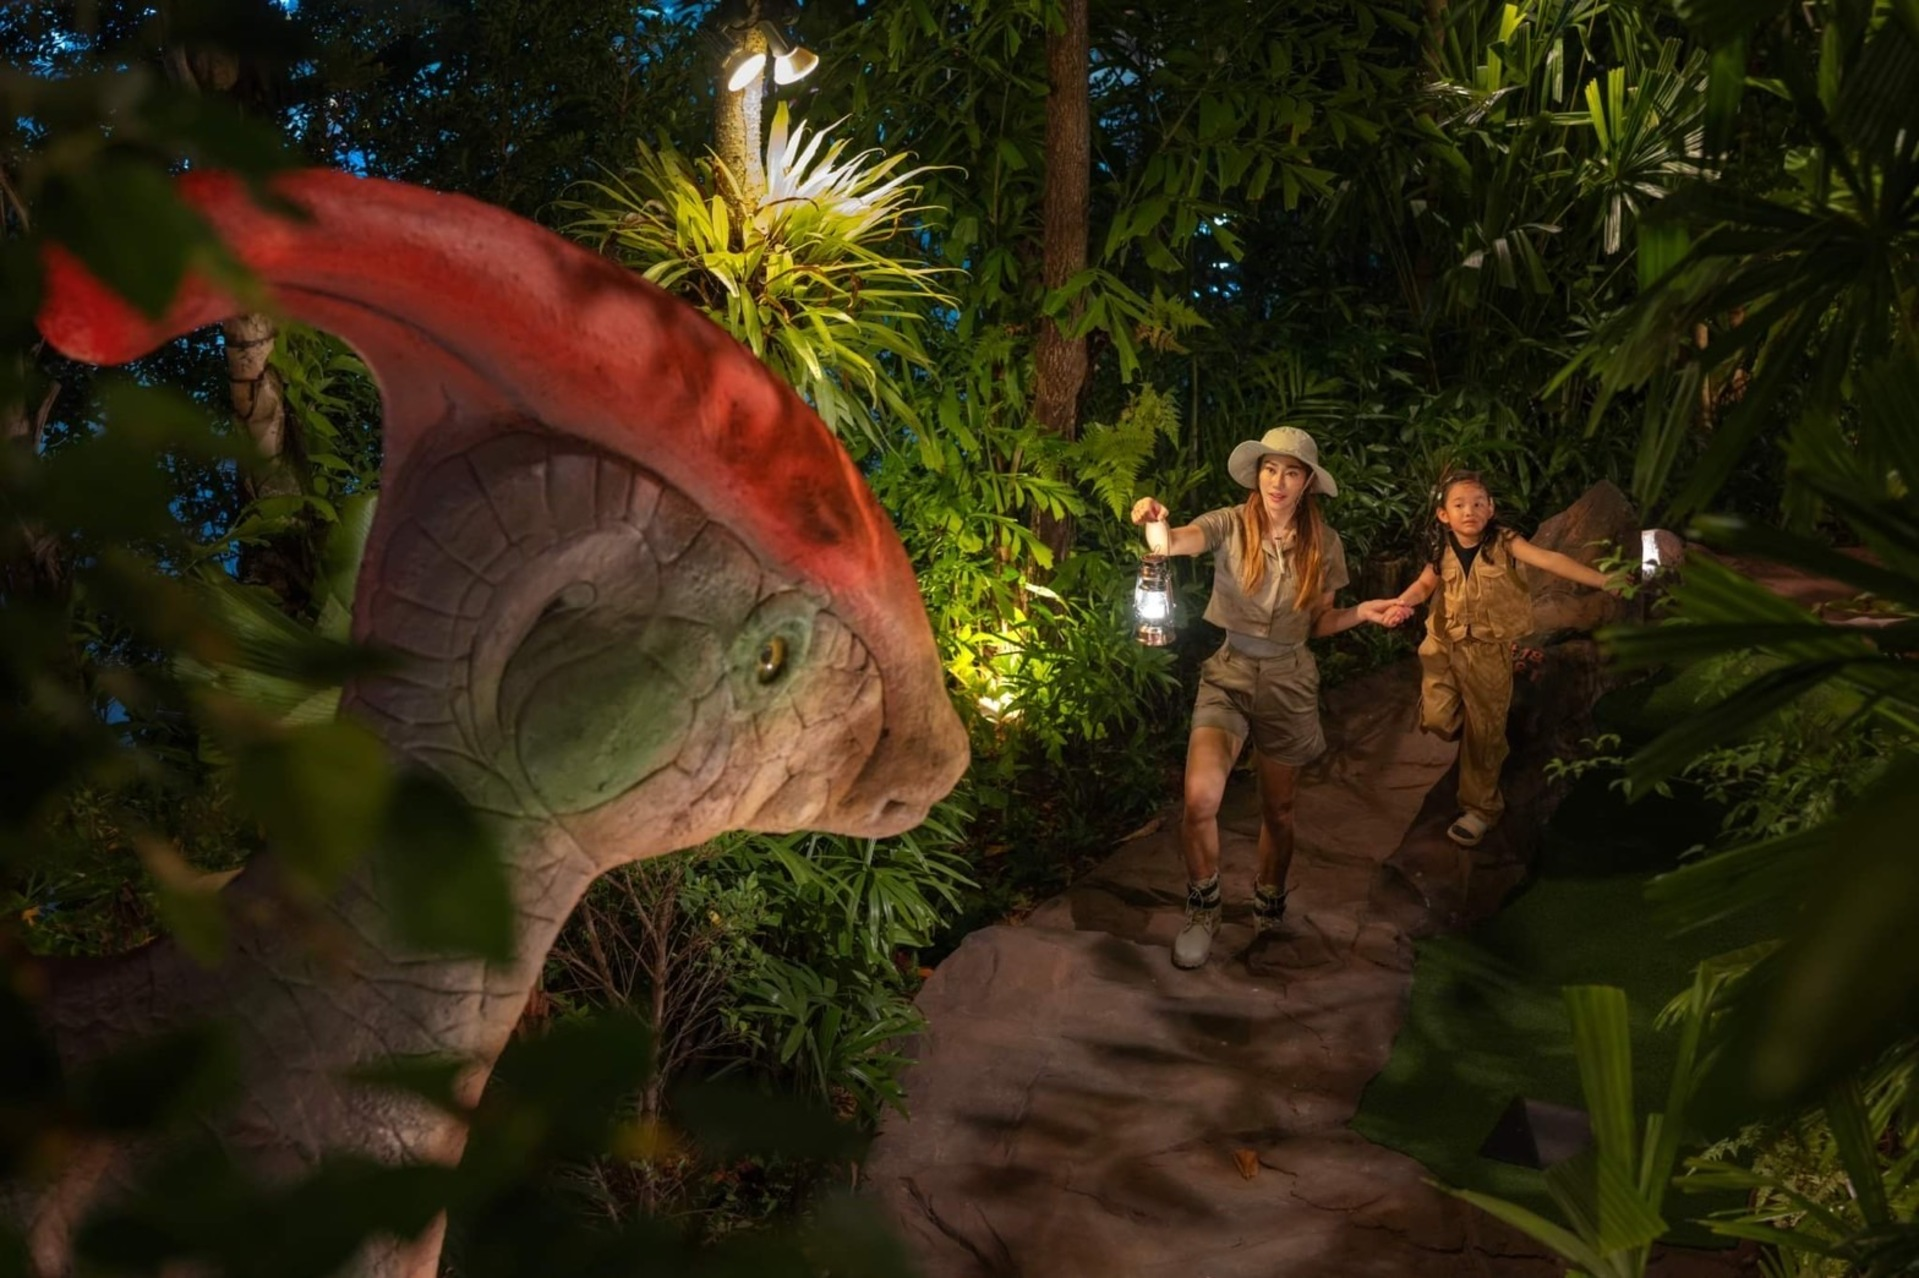
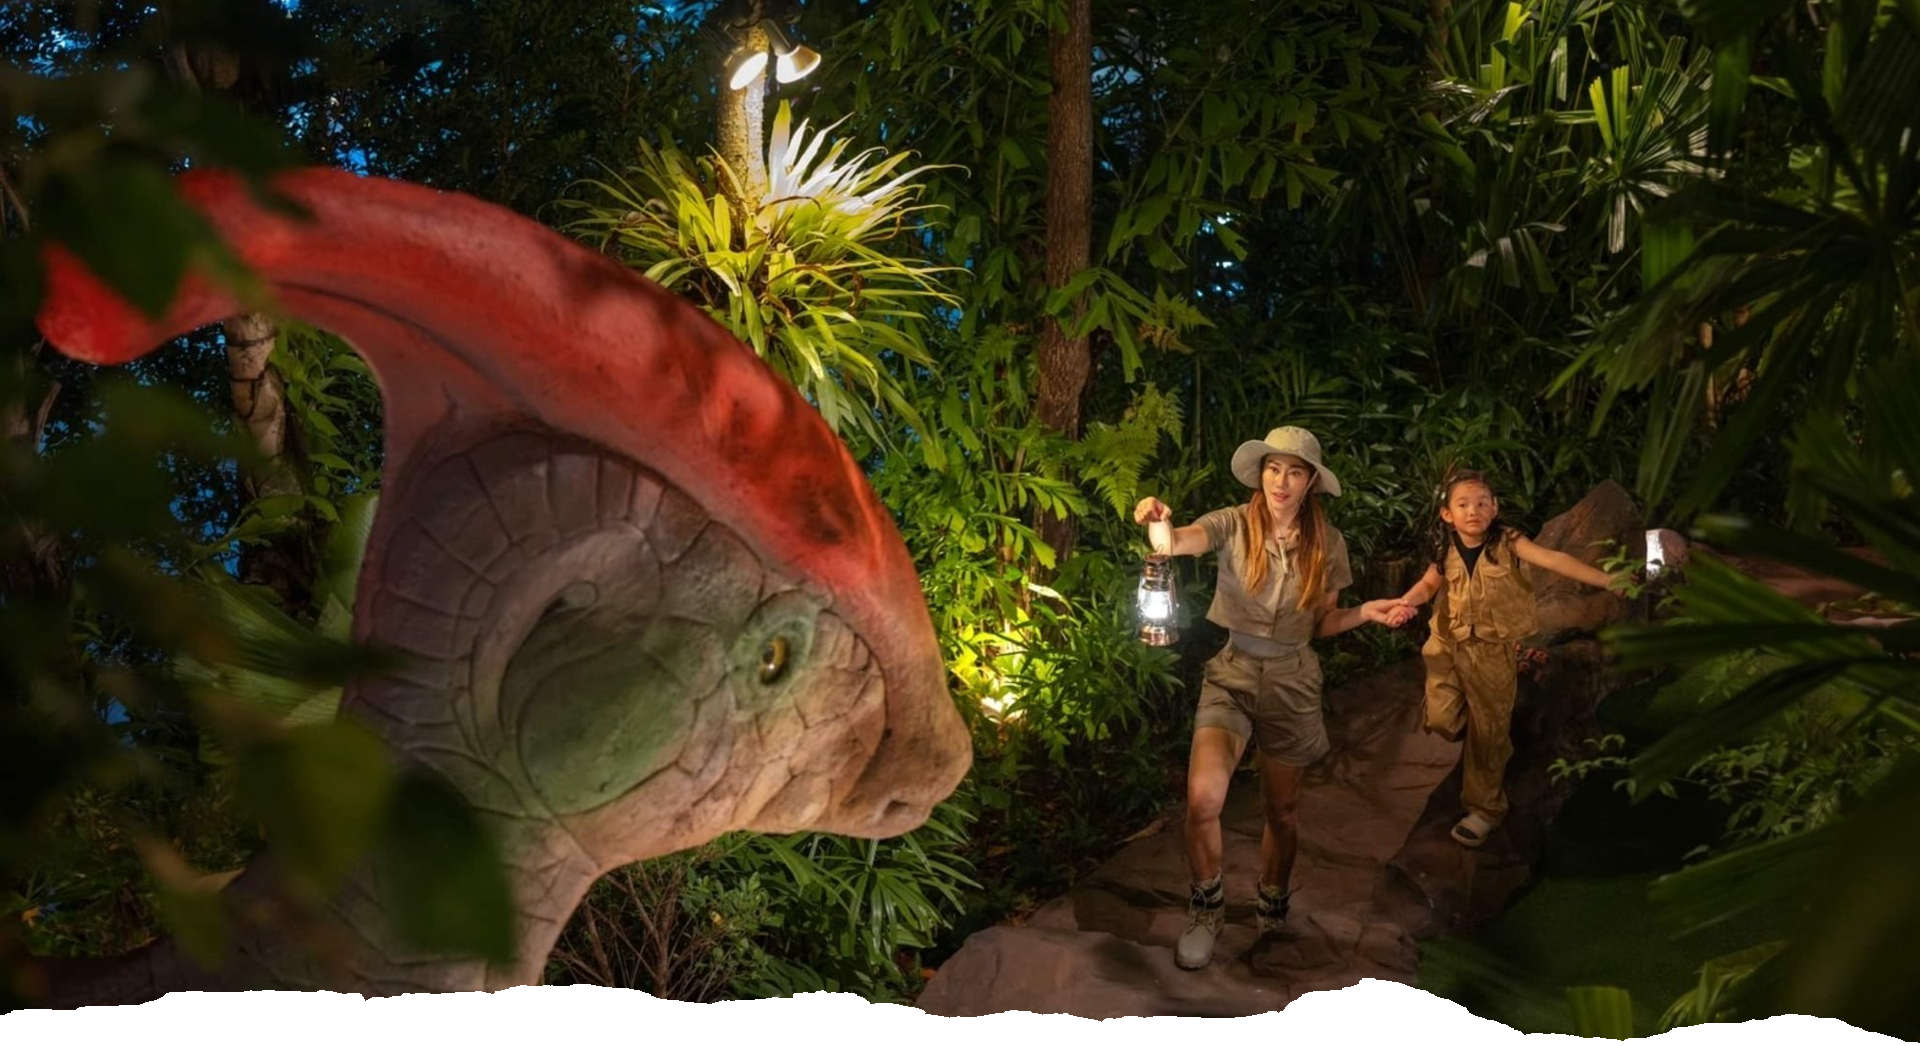
tudut update
.

diff --git a/index.html b/index.html
@@ -334,11 +334,6 @@
                 </div>
                 <div class="row content-box">
                     <div class="col-12 text-center">
-                        <p class="Skranji head-topic head-text" style="text-transform: uppercase;">
-                            Dino Park Phuket - A World Out Of Time
-                        </p>
-                    </div>
-                    <div class="col-12 text-center">
                         <p class="Skranji second-topic head-text">READY TO PUTT YOUR WAY BACK IN TIME</p>
                     </div>
                 </div>
@@ -349,6 +344,11 @@
                         </p>
                         
                     </div>
+                </div>
+                <div class="col-12 text-center">
+                    <p class="font-size-28 content-text" style="text-transform: uppercase;">
+                        Dino Park Phuket - A World Out Of Time
+                    </p>
                 </div>
                 <div class="row btn-contract">
                     <div class="col-12 text-center">
@@ -389,7 +389,7 @@
                 <div class="row e-group">
                     <div class="col-4 text-center e-pic">
                         <a href="eat-drink/food.html">
-                            <img src="img/image-dinokitchenblock.png" alt="" width="100%">
+                            <img src="img/image-dinokitchen.png" alt="" width="100%">
                         </a>
                         <a href="eat-drink/food.html"  class="link">
                             <p class="Lexend-extra e-text">Dino Kitchen</p>
@@ -397,7 +397,7 @@
                     </div>
                     <div class="col-4 text-center e-pic">
                         <a href="eat-drink/drink.html">
-                            <img src="img/image-dinobarblock.png" alt="" width="100%">
+                            <img src="img/dino-bar.png" alt="" width="100%">
                         </a>
                         <a href="eat-drink/drink.html"  class="link">
                             <p class="Lexend-extra e-text">Dino Bar</p>
@@ -408,7 +408,7 @@
                             <img src="img/image-dinostore.png" alt="" width="100%">
                         </a>
                         <a href="soon.html"  class="link">
-                            <p class="Lexend-extra e-text">Dino Store</p>
+                            <p class="Lexend-extra e-text">Dino Park Store</p>
                         </a>
                     </div>
                 </div>

diff --git a/aboutus.html b/aboutus.html
@@ -20,11 +20,11 @@
                 top: 0px;
                 left: 0px;
                 width: 100%;
-                height: 634px;
+                height: 1046px;
                 position: absolute;
                 background: transparent url('img/banner-aboutus2.png') 0% 0% no-repeat padding-box;
                 opacity: 1;
-                background-size: contain;
+                /* background-size: contain; */
             }
             .bg2 {
                 top: 284px;
@@ -413,7 +413,7 @@
                 <div class="row e-group">
                     <div class="col-4 text-center e-pic">
                         <a href="soon.html">
-                            <img src="img/image-minigolf.png" alt="" width="100%">
+                            <img src="img/image-minigolf-aboutus.png" alt="" width="100%">
                         </a>
                         <a href="soon.html"  class="link">
                             <p class="Lexend-extra e-text">Minigolf</p>
@@ -424,12 +424,12 @@
                             <img src="img/image-dinostore.png" alt="" width="100%">
                         </a>
                         <a href="soon.html"  class="link">
-                            <p class="Lexend-extra e-text">Dino Shop</p>
+                            <p class="Lexend-extra e-text">Dino Park Shop</p>
                         </a>
                     </div>
                     <div class="col-4 text-center e-pic">
                         <a href="eat-drink/food.html">
-                            <img src="img/image-dinokitchenblock.png" alt="" width="100%">
+                            <img src="img/image-dinokitchen.png" alt="" width="100%">
                         </a>
                         <a href="eat-drink/food.html"  class="link">
                             <p class="Lexend-extra e-text">Dino Kitchen</p>

diff --git a/parkmap/parkmap.html b/parkmap/parkmap.html
@@ -171,10 +171,10 @@
                             <div class="row mb-3">
                                 <div class="col-12">
                                     <svg class="btn-first" xmlns="http://www.w3.org/2000/svg" height="90" viewBox="0 0 400 90">
-                                        <a xlink:href="mini-golf.html">
+                                        <a xlink:href="https://dinopark-online.globaltix.com/attraction/dino-park-phuket-mini-golf-48265">
                                             <g id="button-see_more_drinks-default" data-name="button-see more drinks-default" transform="translate(-1111 -778.615)">
                                               <rect id="Rectangle_44" data-name="Rectangle 44" width="400" height="90" rx="20" transform="translate(1111 778.615)" fill="#7f7f4e"/>
-                                              <text id="See_more" data-name="See more" transform="translate(1311 835.615)" fill="#fdf3ec" font-size="32" font-family="Lexend" font-weight="600"><tspan x="-75" y="0">See more</tspan></text>
+                                              <text id="See_more" data-name="See more" transform="translate(1311 835.615)" fill="#fdf3ec" font-size="32" font-family="Lexend" font-weight="600"><tspan x="-75" y="0">Buy Ticket</tspan></text>
                                             </g>
                                         </a>
                                       </svg>

diff --git a/ticket.html b/ticket.html
@@ -200,7 +200,7 @@
                                                 <p class="font-size-36 Lexend-extra">Kid</p>
                                             </div>
                                             <div class="col-4">
-                                                <p class="font-size-36 Lexend-extra" style="color: #B93E12;">250</p>
+                                                <p class="font-size-36 Lexend-extra" style="color: #B93E12;">450</p>
                                             </div>
                                             <div class="col-4">
                                                 <p class="font-size-28 mt-2">THB</p>
